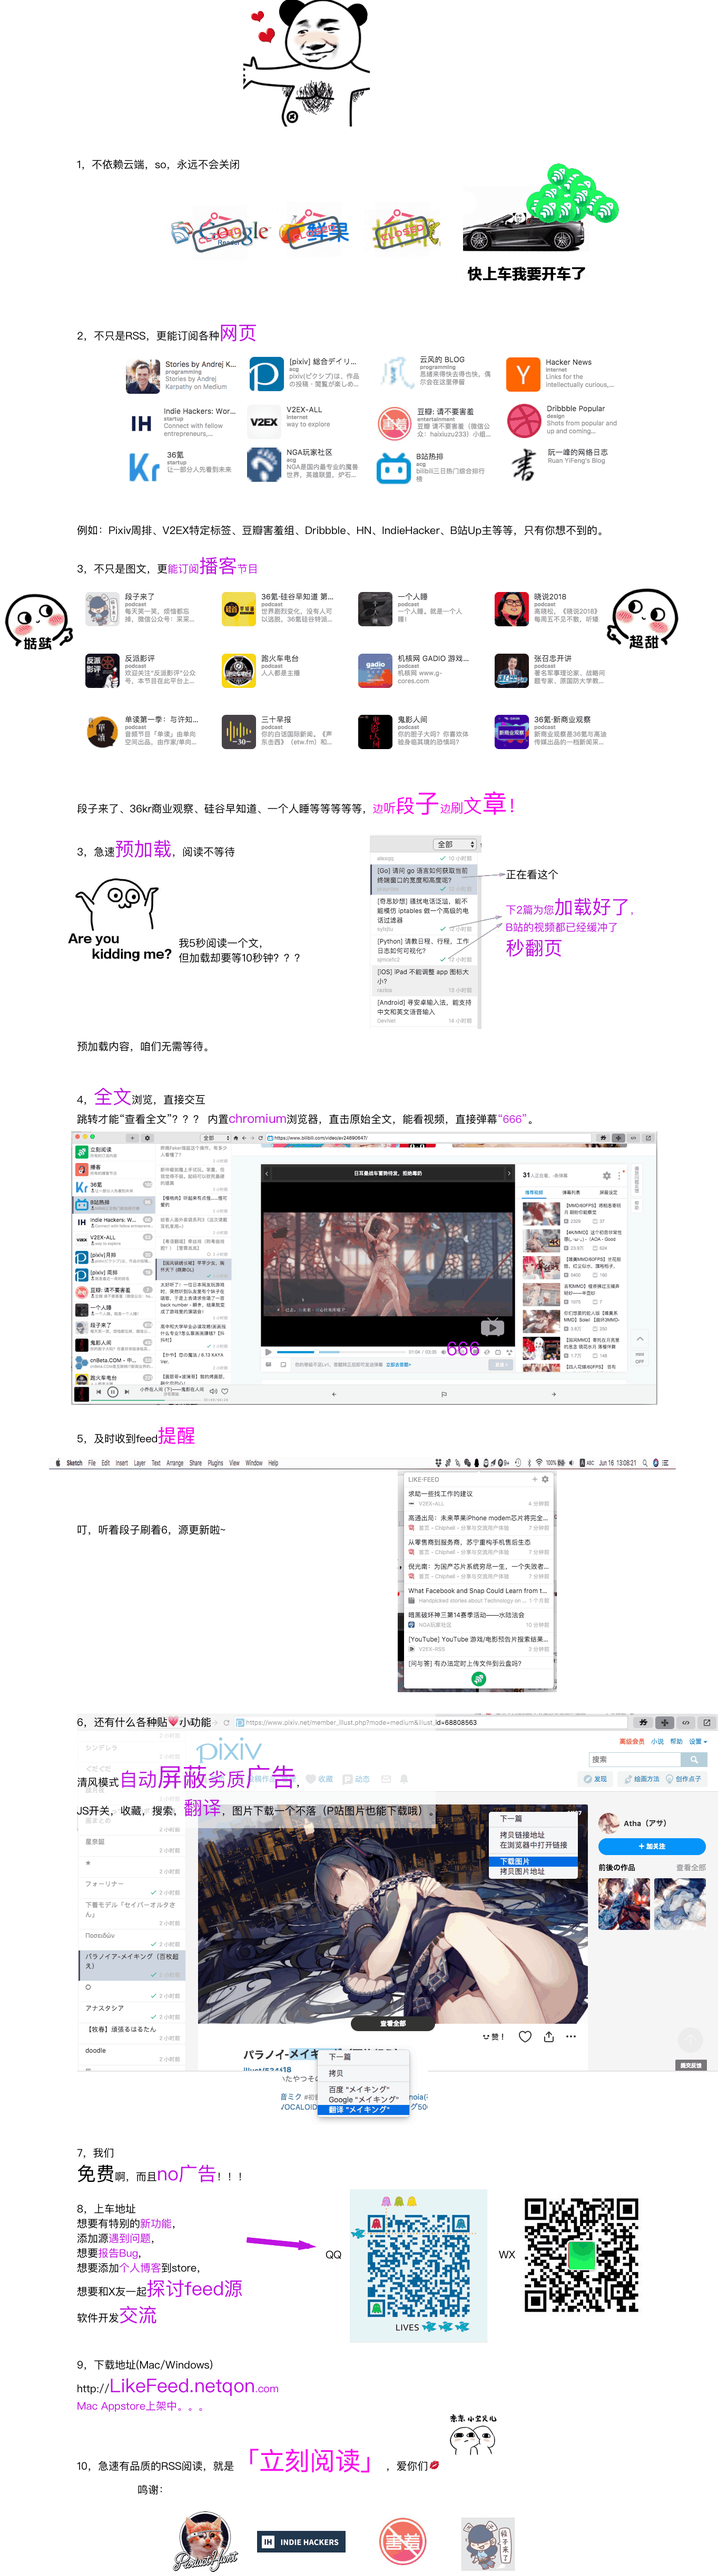
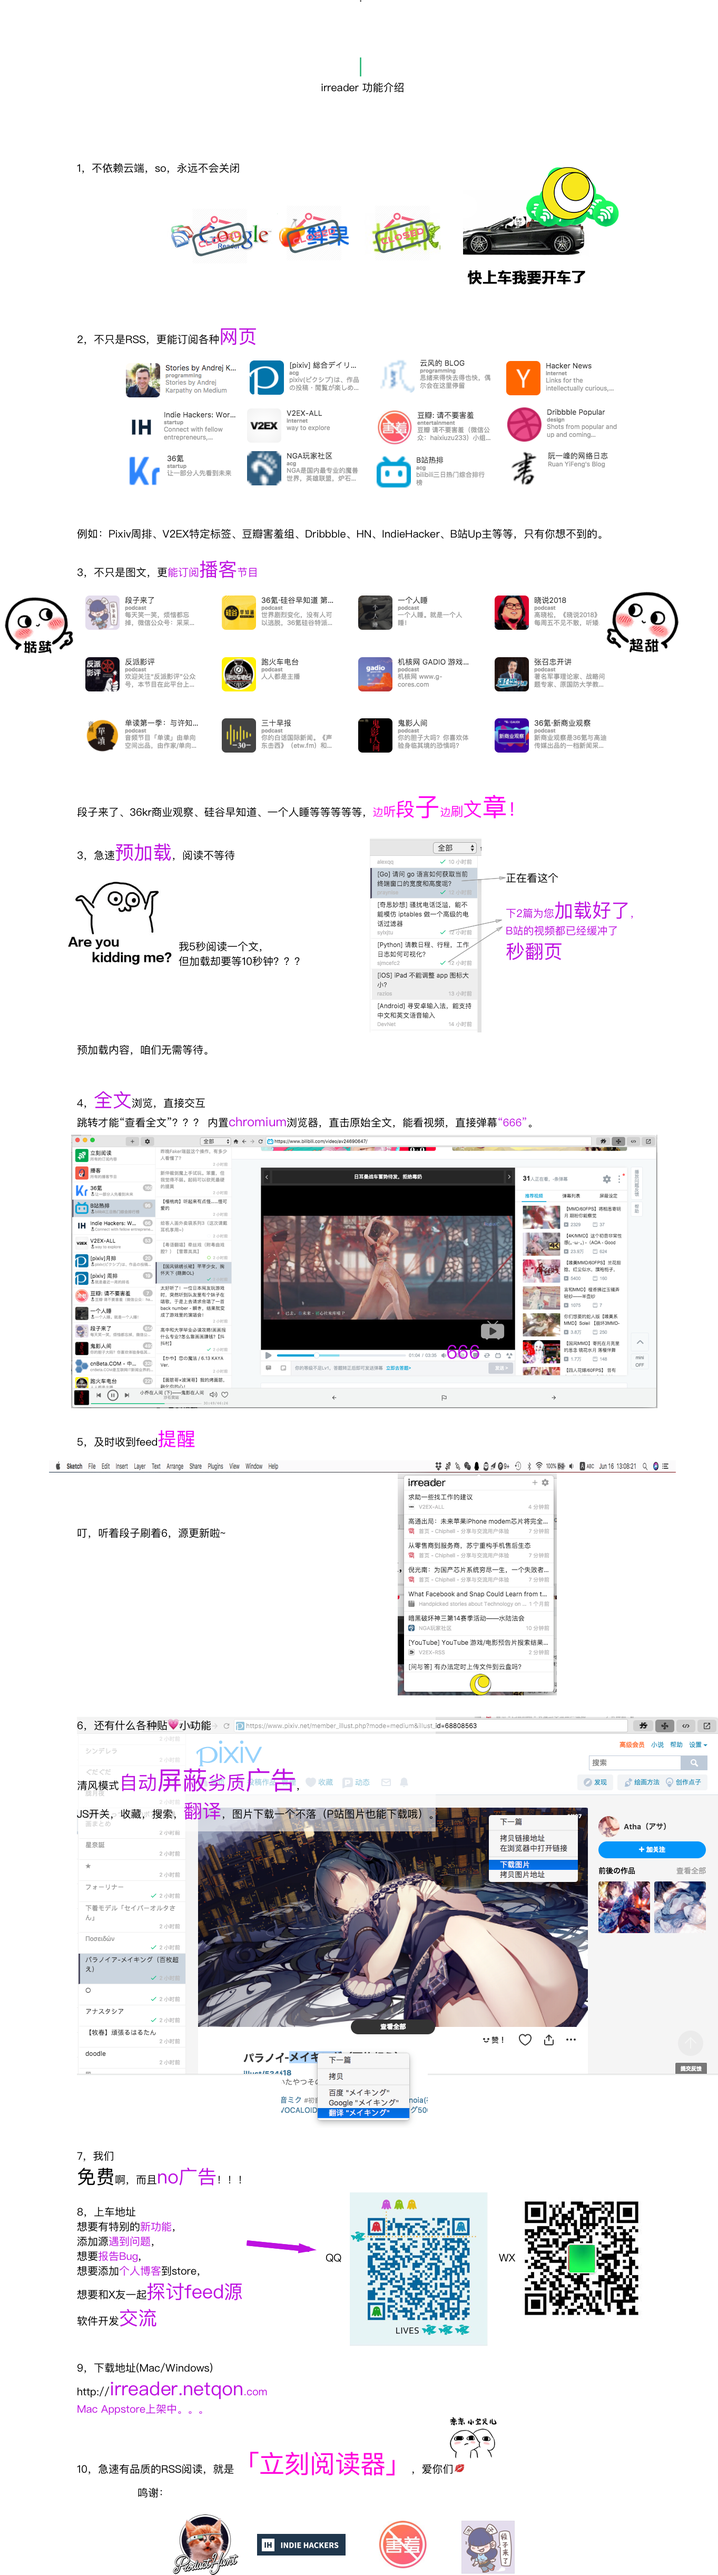
change to irreader

diff --git a/index.html b/index.html
@@ -15,9 +15,9 @@
 
     <meta charset="UTF-8">
     <meta name="viewport" content="width=device-width,initial-scale=1">
-    <meta name="description" content="订阅网页、RSS和Podcast，具备极速的阅读体验，高品质、免费、无广告、多平台的RSS阅读器。">
+    <meta name="description" content="订阅网页、RSS和Podcast，具备极速的阅读体验，高品质、开源、免费、无广告、多平台的RSS阅读器。">
 
-    <title>LikeFeeder 立刻阅读器</title>
+    <title>irreader 立刻阅读器</title>
     <link rel="icon" href="libs/favicon.png" type="image/png" />
     <link rel="stylesheet" href="libs/bootstrap.css" />
     <script src="libs/jquery.js"></script>
@@ -42,7 +42,6 @@
                         <li data-target="#carouselExampleIndicators" data-slide-to="3"></li>
                         <li data-target="#carouselExampleIndicators" data-slide-to="4"></li>
                         <li data-target="#carouselExampleIndicators" data-slide-to="5"></li>
-                        <li data-target="#carouselExampleIndicators" data-slide-to="6"></li>
                     </ol>
                     <div class="carousel-inner">
                         <div class="carousel-item active">
@@ -73,11 +72,6 @@
                             </div>
                         </div>
 
-                        <div class="carousel-item">
-                            <img class="d-block w-100 " src="libs/c/6.png" alt="Third slide">
-                            <div class="carousel-caption d-none d-md-block shwotext">
-                            </div>
-                        </div>
 
 
                     </div>
@@ -95,10 +89,10 @@
 
             <div id="show_titles">
                 <img src="libs/favicon.png" width="150px">
-                <img src="libs/fate2.jpeg" width="150px">
+                <!-- <img src="libs/fate2.jpeg" width="150px"> -->
                 <div id="it">
                     <h2>Netqon</h2>
-                    <h1>LikeFeeder 立刻阅读器
+                    <h1>irreader 立刻阅读器
                     </h1>
                     <h3>
                         订阅网页、RSS和Podcast，具备急速的阅读体验，
@@ -108,11 +102,14 @@
                 </div>
 
                 <div>
-                    <a class="btn_download" href="http://likefeed.netqon.com/download/likefeed-darwin-latest.dmg">
+                    <a class="btn_download" href="http://irreader.netqon.com/download/irreader-darwin-latest.dmg">
                         ⬇ MacOS</a>
-                    <a class="btn_download" href="http://likefeed.netqon.com/download/likefeed-win32-latest.zip">
-                        ⬇ Windows(开发中)</a>
-                    <a class="btn_download" href="https://github.com/fateleak/likefeed">Fork me on Github</a>
+                    <a class="btn_download" href="http://irreader.netqon.com/download/irreader-win32-latest.zip">
+                        ⬇ Windows(稍后发布，进群获得通知)</a>
+                        
+                    <a class="btn_download" href="https://github.com/fateleak/irreader">
+                        ⬇ GitHub下载分流（较慢但推荐，你懂的）</a>
+                    <a class="btn_download" href="https://github.com/fateleak/irreader">Fork me on Github</a>
                 </div>
 
                 <footer id="foot">
@@ -131,14 +128,16 @@
 
         <div id="foot2">
             下载：
-            <a class="btn_download btn_download2" href="http://openwebmonitor.netqon.com/download/latest/openwebmonitor-darwin-latest.dmg">
+            <a class="btn_download btn_download2" href="http://irreader.netqon.com/download/irreader-darwin-latest.dmg">
                 ⬇ MacOS</a>
-            <a class="btn_download btn_download2" href="http://openwebmonitor.netqon.com/download/latest/openwebmonitor-win32-latest.zip">
-                ⬇ Windows</a>
+
+
+            <a class="btn_download btn_download2" href="http://irreader.netqon.com/download/irreader-win32-latest.zip">
+                ⬇ Windows(稍后）</a>
         </div>
 
         <div id="foot3">
-            (C) 2018 Netqon.com 浙ICP备17048489号-2
+            © 1991-2018 Netqon.com 浙ICP备17048489号-2
         </div>
     </div>
 

diff --git a/embedded.html b/embedded.html
@@ -4,7 +4,7 @@
 <head>
     <meta http-equiv="Content-Type" content="text/html; charset=UTF-8">
     <meta name="viewport" content="user-scalable=no, width=500">
-    <title>立刻阅读内嵌页面</title>
+    <title>irreader embedded page</title>
     <meta name="description" content="fateleak, chatbot, colorpad, netqon, boringuniverse, digg.fun hacking.im wuma.im likefeed likeread">
     <link rel="icon" href="libs/favicon.png" type="image/png" />
 
@@ -29,14 +29,14 @@
 
         h3{
             font-family: Arial, Helvetica, sans-serif;
-            border-left: 5px rgb(127, 189, 35) solid;
+            border-left: 5px #F8E71C solid;
             padding-left: 10px;
         }
     </style>
 
-    <h3>LikeFeeder Introduction</h3>
+    <h3>irreader </h3>
     <p>
-LikeFeeder is an easy-to-use RSS reader that allows you to follow your favorite
+irreader is an easy-to-use RSS reader that allows you to follow your favorite
 RSS feed, websites, and podcasts in one place. 
 <br />
 <br />
@@ -87,28 +87,32 @@ The Feed source store provide hundreds of hand-collected Chinese feed source in
         Navigate to pvious feed      Cmd + Left-Arrow
     </pre>
     </p>
-    <h3>Contact Me</h3>
+    <h3>Join Us</h3>
     <p>
 Hope to get some feedback from you. Feel free to join me:
 <br /><br />
-<a href="https://twitter.com/fateleak223" target="_blank">fateleak223@Twitter</a><br />
-<a href="https://github.com/fateleak" target="_blank">fateleak@Github</a><br />
-<a href="https://weibo.com/u/6152162029" target="_blank">Fate2233999@微博</a><br />
 fateleak@微信<br />
 QQ群：568968683<br />
+<a href="https://github.com/fateleak" target="_blank">fateleak@Github</a><br />
+<a href="https://twitter.com/fateleak223" target="_blank">fateleak223@Twitter</a><br />
 
 </p>
 
+<h3>Known Issues</h3>
+<pre>
+已知问题:
+1, When using proxy, network state change may cause crash.
+当使用代理时，若网络状态变化，则软件会退出（上游chromium的bug）。
+
+</pre>
 <h3>Change log</h3>
 <pre>
+v1.0.2(2018-07-04)
+change name and logo
+fix bugs
 
-Version 1.0.1(2018-06-30)
-
-Changes:
-Init release
-
-Known Issues:
-1, When using proxy, network state change may cause crash.
+v1.0.1(2018-06-30)
+init release
 
 </pre>
 

diff --git a/index.css b/index.css
@@ -49,8 +49,8 @@ sup{
     margin: 15px auto;
     outline: none;
     padding: 0.5em 1em;
-    background: rgb(153, 255, 133);
-    color: rgb(78, 187, 0);
+    background: #F8E71C;
+    color: rgb(169, 157, 22);
 }
 .shwotext>p{
     color: #333 !important;
@@ -145,4 +145,8 @@ h3{
 .btn_download2{
     padding: 1em 2em;
     display: inline;
+}
+
+#foot3{
+    font-size: 10px;
 }
